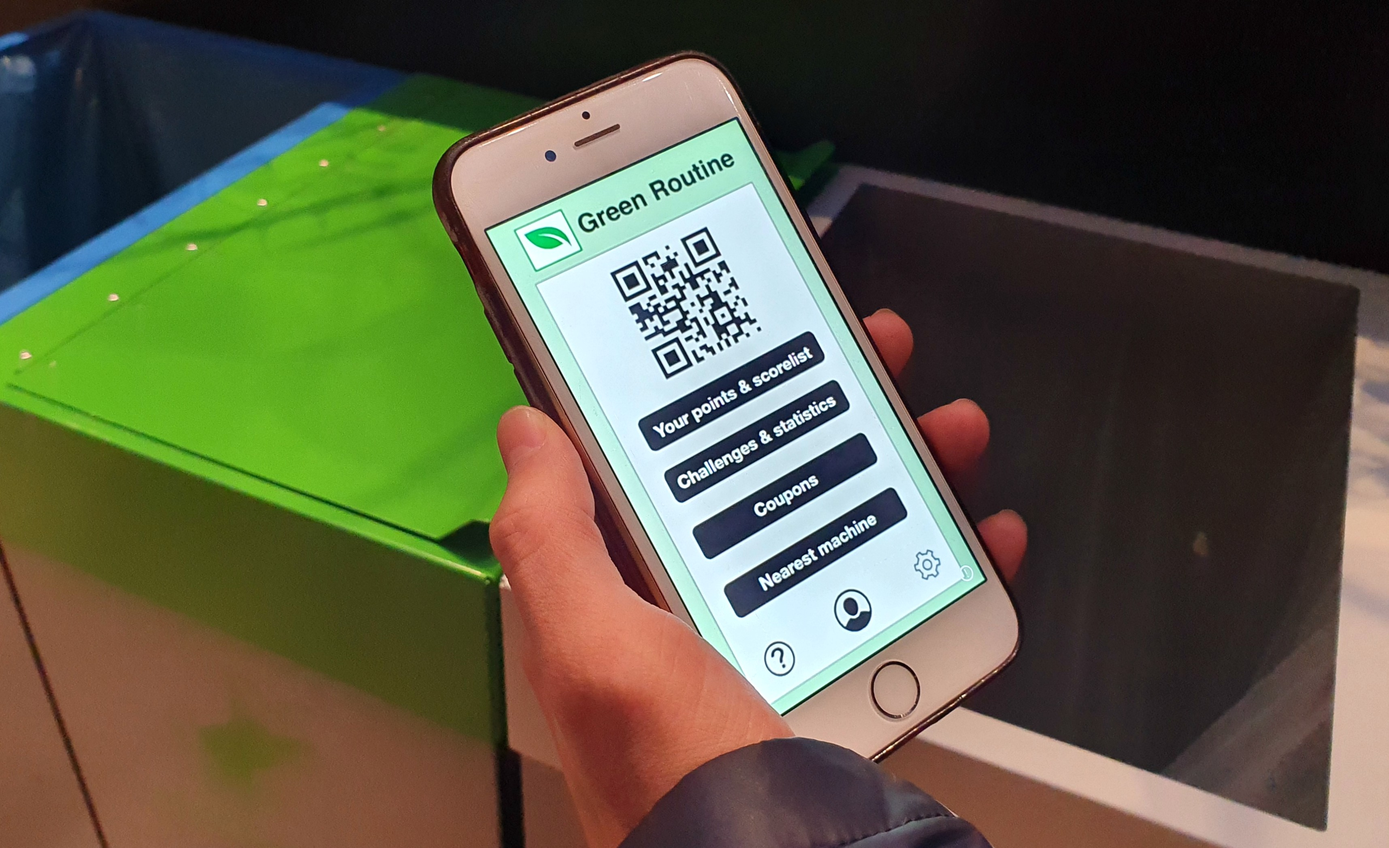
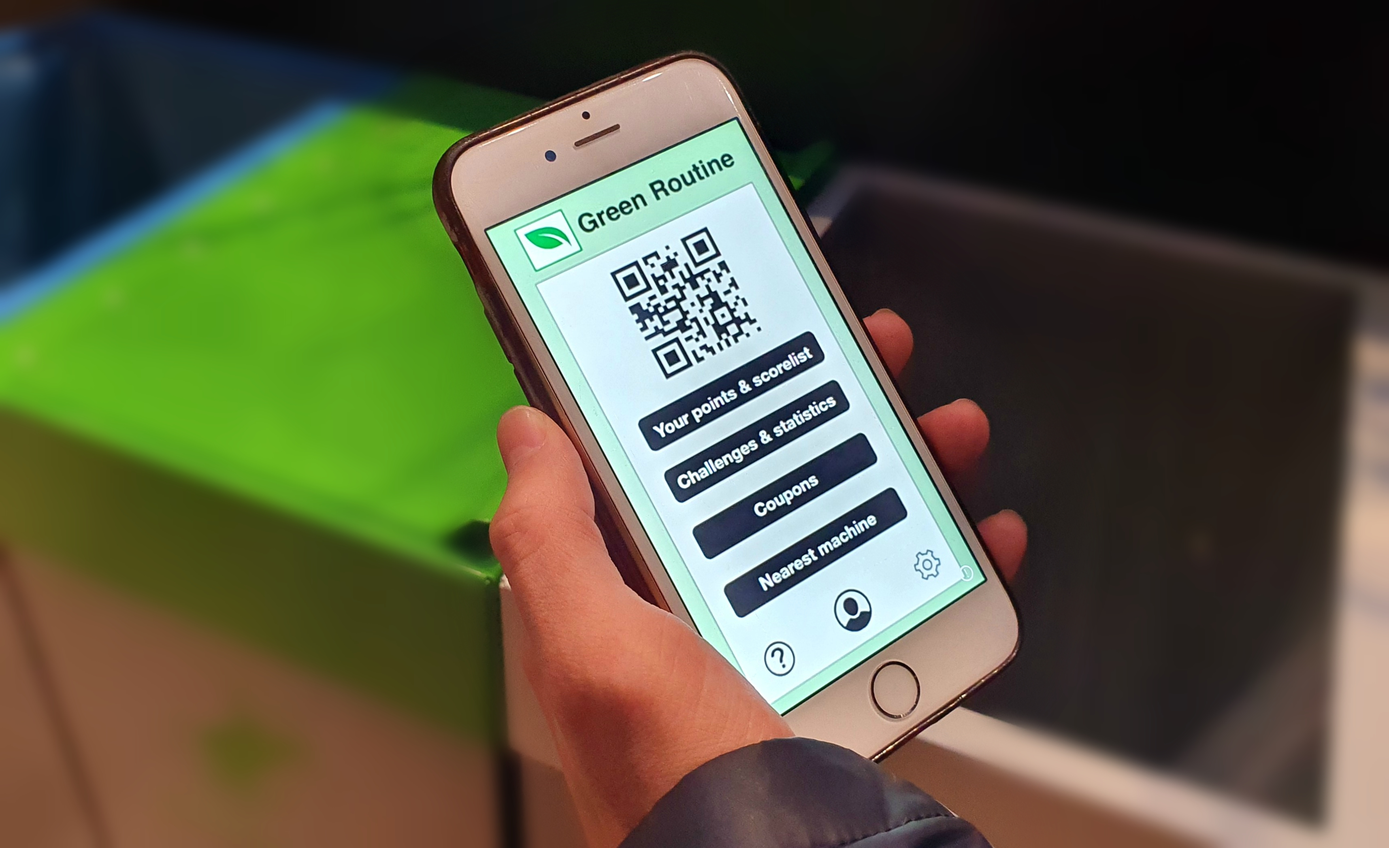
fikset problem og solution, la til blur på homeimg

diff --git a/HTML/problem.html b/HTML/problem.html
@@ -61,7 +61,7 @@
                 <h1 tabindex="0">Problem</h1>
             </header>
             <img class="TrashPic" src="../Pictures/RecyclePic.png" tabindex="0">
-            <p><a tabindex="0">Have you ever asked yourself how you could make an impact on the world? Imagine having the opportunity to direct positive influence on the local community by doing small, but notable actions on a weekly basis.</a><a tabindex="0"> Currently, more and more people has become aware of the negative effects littering has on the planet – both on a local and global level. Climate change has become the biggest environmental challenge of our generation.</a></p>
+            <p><a tabindex="0">Have you ever asked yourself how you could make an impact on the world? Imagine the opportunity to have a direct positive influence on the community by doing small, but notable actions on a weekly basis.</a><a tabindex="0"> Currently, more and more people has become aware of the negative effects littering has on the planet – both on a local and global level. Climate change has become the biggest environmental challenge of our generation.</a></p>
             <br>
             <p><a tabindex="0">It can be hard to know how one can contribute to the green movement. There exists countless of different eco-friendly actions that could be implemented in one’s daily routine.</a><a tabindex="0"> Where does one begin? Is there a way to make it easier and fun for the local community to participate in recycling for the sake of our environment?</a></p>
             <br>

diff --git a/HTML/NOsolution.html b/HTML/NOsolution.html
@@ -74,7 +74,7 @@
             <h2 class="sideTitles" tabindex="0" style="margin-top: -2%">Hvordan fungerer applikasjonen?</h2>
 
             <p tabindex="0">Når du først logger deg inn i appen, får du opp en meny med din egen QR-kode. Dette er koden som også brukes for å kunne starte opp maskinen. Med andre ord, så er appen og maskinen koblet sammen. Appen har en oversikt over poenglisten din og antallet poeng du har samlet opp fra å resirkulere. Du har også statistikk over hvor mye av hver søppelsort du har kastet på en ukentlig basis, og nivåbaserte utfordringer slik at du kan gå opp i nivå og samle mer poeng. I tillegg har du en kuponskategori hvor du kan se hva slags type tilbud du får. Tilbudene varierer med tiden. </p>
-            <br><br>
+            <br>
             <div class="textBelow">
                 <div class="SlideShowBox" style="display: none;">
                     <img class="imageTag" value="app">

diff --git a/HTML/solution.html b/HTML/solution.html
@@ -74,7 +74,7 @@
             <h2 class="sideTitles" tabindex="0" style="margin-top: -2%">How does the app work?</h2>
 
             <p tabindex="0">When you first log in to the app, you get a menu that has your own QR–code which is used to start the machine, in other words, the app and the machine are linked. The app has an overview of the points list and the number of points you have collected from recycling. You have a statistic of how much of the different types of junk you've thrown weekly, and level challenges so you can level up and earn more points. In addition, you have a coupon category where you can see what kind of offers you get, depending on the time.</p>
-            <br><br>
+            <br>
             <div class="textBelow">
                 <div class="SlideShowBox" style="display: none;">
                     <img class="imageTag" value="app">
